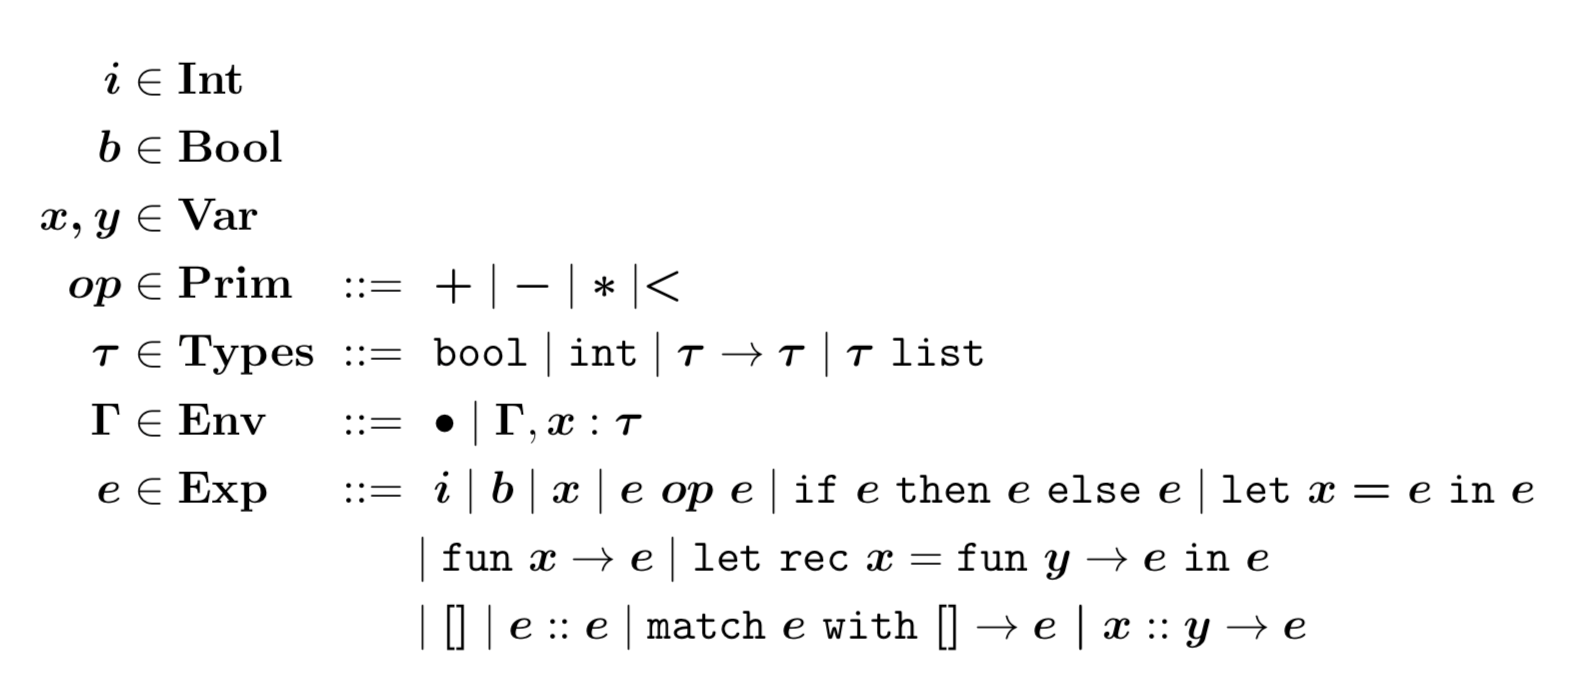
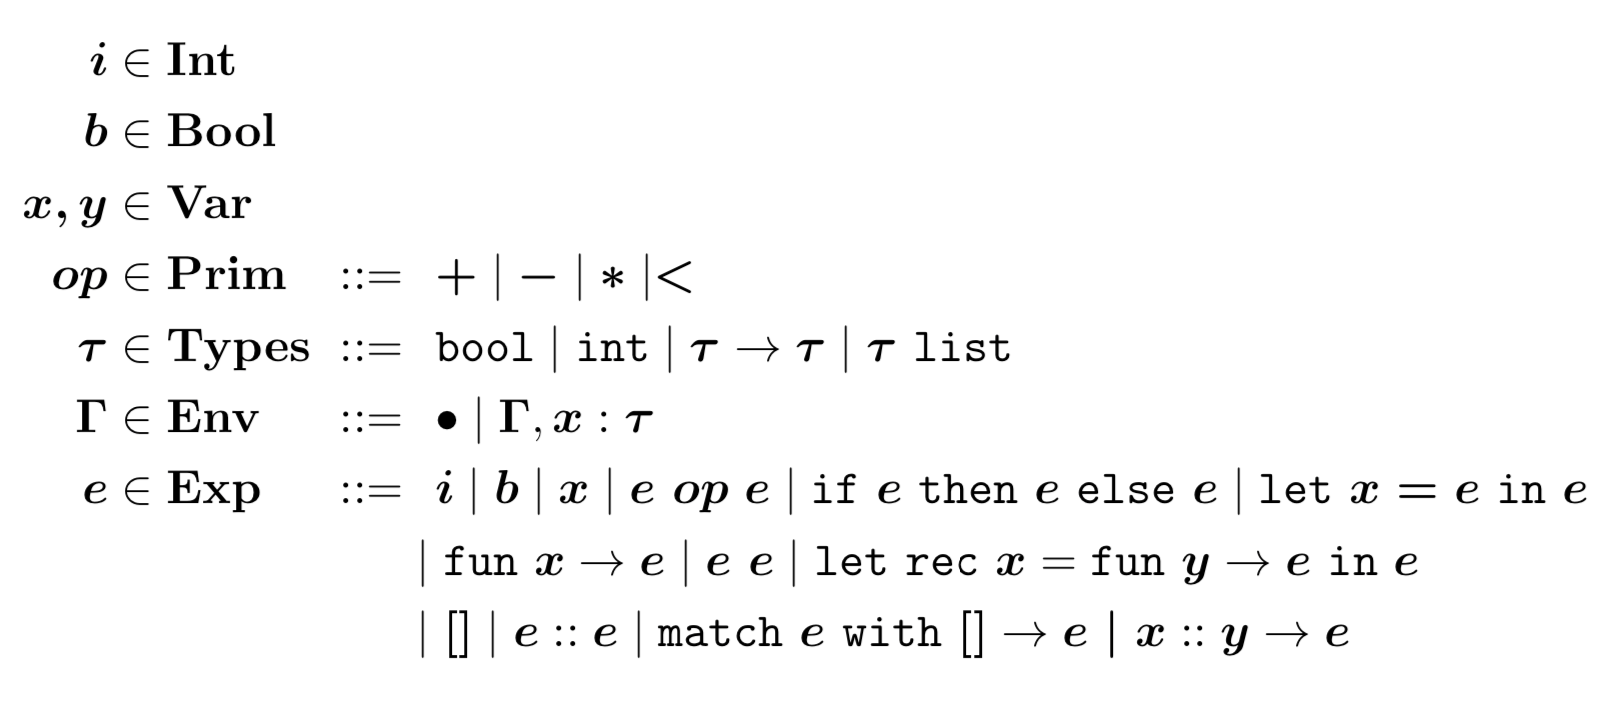
fix

diff --git a/tex/main.tex b/tex/main.tex
@@ -26,7 +26,7 @@
     \mid \mathtt{if} ~ \boldsymbol{e} ~ \mathtt{then} ~ \boldsymbol{e} ~ \mathtt{else} ~ \boldsymbol{e}
     \mid \mathtt{let} ~ \boldsymbol{x = e} ~ \mathtt{in} ~ \boldsymbol{e}\\
     &&&\mid \mathtt{fun} ~ \boldsymbol{x} \to \boldsymbol{e}
-    \mid \mathtt{let ~ rec} ~ \boldsymbol{x} = \mathtt{fun} ~ \boldsymbol{y} \to \boldsymbol{e} ~ \mathtt{in} ~ \boldsymbol{e}\\
+    \mid \boldsymbol{e ~ e} \mid \mathtt{let ~ rec} ~ \boldsymbol{x} = \mathtt{fun} ~ \boldsymbol{y} \to \boldsymbol{e} ~ \mathtt{in} ~ \boldsymbol{e}\\
     &&&\mid \boldsymbol{[]}
     \mid \boldsymbol{e} :: \boldsymbol{e}
     \mid \mathtt{match} ~ \boldsymbol{e} ~ \mathtt{with} ~ \boldsymbol{[]} \to \boldsymbol{e} ~ \boldsymbol{|} ~ \boldsymbol{x} :: \boldsymbol{y} \to \boldsymbol{e}
